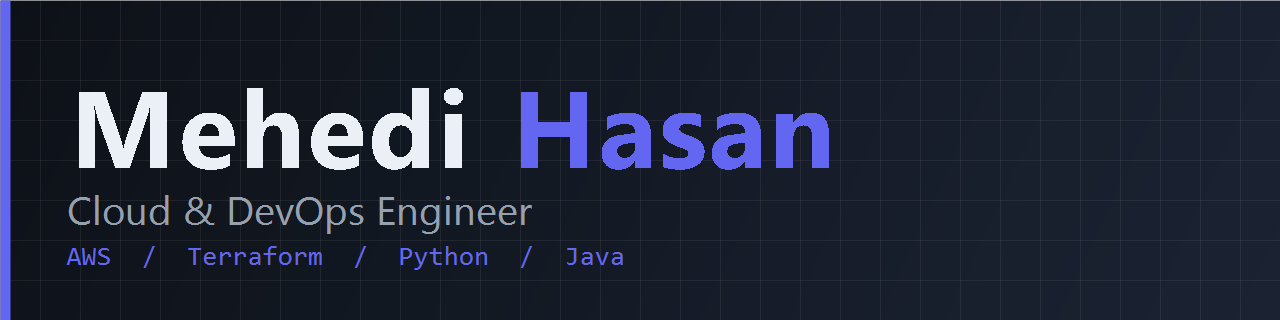
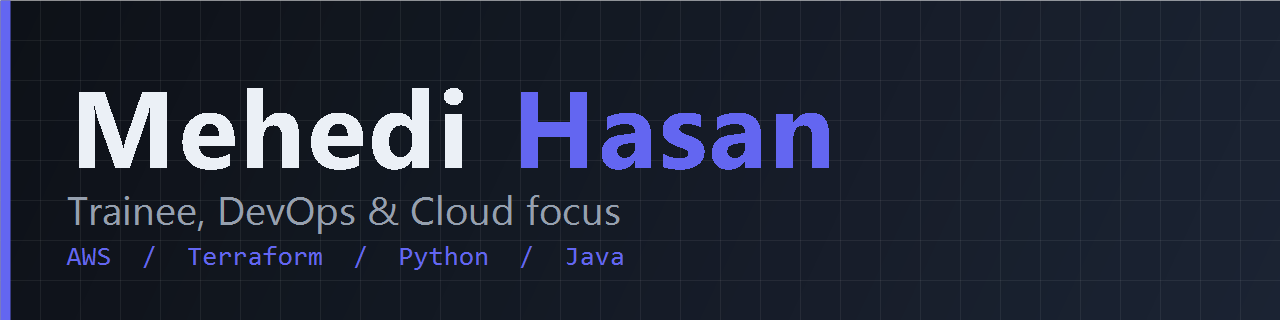
Use one honest role framing and fix the forks claim (#1)
Change the banner and alt text from Cloud and DevOps Engineer to Trainee, DevOps and Cloud focus, matching the role in the README. Replace the no forks, no tutorial clones note, which two public forks and the exercise-based Terraform repos contradicted.

Changed region(s): [[0.0312, 0.5938, 0.5, 0.75]]

diff --git a/README.md b/README.md
@@ -1,5 +1,5 @@
 <div align="center">
-  <img src="https://github.com/mehedi-hasan-2426/mehedi-hasan-2426/blob/main/banner.png?raw=true" alt="Mehedi Hasan - Cloud and DevOps Engineer" />
+  <img src="https://github.com/mehedi-hasan-2426/mehedi-hasan-2426/blob/main/banner.png?raw=true" alt="Mehedi Hasan - Trainee, DevOps and Cloud focus" />
 </div>
 
 I work on AWS infrastructure in an enterprise DevOps team. Most of what I know came from
@@ -26,7 +26,7 @@ resource "human" "mehedi" {
 ```
 
 > [!IMPORTANT]
-> **Nimbus is live** at **[ccp.mehedihasanrahib.de](https://ccp.mehedihasanrahib.de)** —
+> **Nimbus is live** at **[ccp.mehedihasanrahib.de](https://ccp.mehedihasanrahib.de)**:
 > 987 AWS Cloud Practitioner practice questions.
 
 ## The day job
@@ -113,7 +113,7 @@ locals {
 | **[team-availability-planner](https://github.com/mehedi-hasan-2426/team-availability-planner)** | Desktop planner in `PyQt6` |
 
 > [!NOTE]
-> Every repository above is mine and finished enough to run. No forks, no tutorial clones.
+> Every repository above is my own work. The Terraform repositories started as guided AWS exercises that I wrote and deployed myself.
 
 ## State
 
